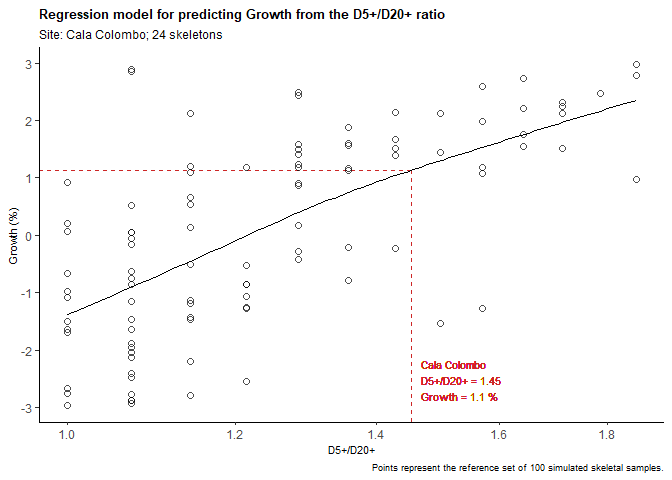
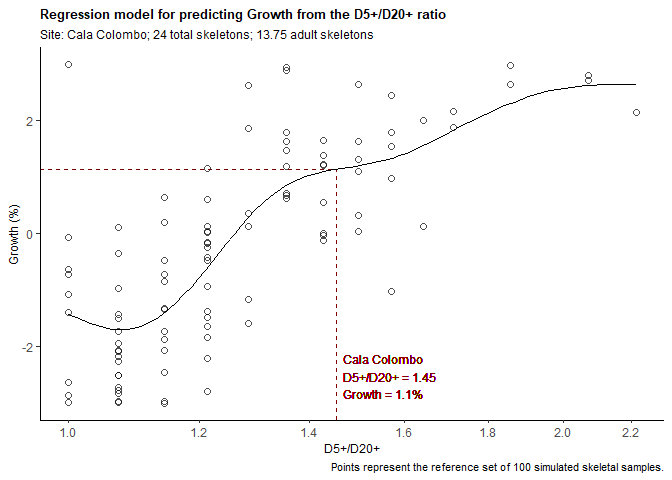
Add files via upload

diff --git a/README.md b/README.md
@@ -79,20 +79,19 @@ BA
 ```
 
     ## # A tibble: 68 × 12
-    ##    Site         Front   C14    dt  D0_4 D5_19   D20_     n D5_19…¹   D5_ D5_D20_
-    ##    <chr>        <int> <int> <int> <dbl> <dbl>  <dbl> <dbl>   <dbl> <dbl>   <dbl>
-    ##  1 Aisne series  5000  4900   100 10    15     25       50   0.375  40      1.6 
-    ##  2 Aiterhofen …  5400  5300   100  5.4  21.4  115.     142   0.157 137.     1.19
-    ##  3 Ajdovska Ja…  5500  4394  1106  6     8     11       25   0.421  19      1.73
-    ##  4 Aven de la …  5500  3176  2324  3.2   7.8   49       60   0.137  56.8    1.16
-    ##  5 Bade-Wutemb…  5400  5250   150  7.2  12.8   11       31   0.538  23.8    2.16
-    ##  6 Baume Bourb…  5500  4700   800  1.75  3.91   9.33    15   0.295  13.2    1.42
-    ##  7 Belleville    4900  2548  2352  9.8  35.6   95.6    141   0.272 131.     1.37
-    ##  8 Breuil-en-V…  4900  2700  2200 28    20     40       88   0.333  60      1.5 
-    ##  9 Brochtorff …  5900  3900  2000  2    15     55       72   0.214  70      1.27
-    ## 10 Bruchstedt    5400  5250   150  8.2  18.8   34       61   0.356  52.8    1.55
-    ## # … with 58 more rows, 1 more variable: Culture <chr>, and abbreviated variable
-    ## #   name ¹D5_19_D5_
+    ##    Site   Front   C14    dt  D0_4 D5_19   D20_     n     P   D5_ D5_D20_ Culture
+    ##    <chr>  <int> <int> <int> <dbl> <dbl>  <dbl> <dbl> <dbl> <dbl>   <dbl> <chr>  
+    ##  1 Aisne…  5000  4900   100 10    15     25       50 0.375  40      1.6  Neolit…
+    ##  2 Aiter…  5400  5300   100  5.4  21.4  115.     142 0.157 137.     1.19 Neolit…
+    ##  3 Ajdov…  5500  4394  1106  6     8     11       25 0.421  19      1.73 Neolit…
+    ##  4 Aven …  5500  3176  2324  3.2   7.8   49       60 0.137  56.8    1.16 Neolit…
+    ##  5 Bade-…  5400  5250   150  7.2  12.8   11       31 0.538  23.8    2.16 Neolit…
+    ##  6 Baume…  5500  4700   800  1.75  3.91   9.33    15 0.295  13.2    1.42 Neolit…
+    ##  7 Belle…  4900  2548  2352  9.8  35.6   95.6    141 0.272 131.     1.37 Neolit…
+    ##  8 Breui…  4900  2700  2200 28    20     40       88 0.333  60      1.5  Neolit…
+    ##  9 Broch…  5900  3900  2000  2    15     55       72 0.214  70      1.27 Neolit…
+    ## 10 Bruch…  5400  5250   150  8.2  18.8   34       61 0.356  52.8    1.55 Neolit…
+    ## # … with 58 more rows
 
 ``` r
 # For column description, run help(BA).
@@ -228,14 +227,14 @@ BA %>%
     ## # A tibble: 10 × 8
     ##    Site         Culture    DV     IV            Est       Lwr       Upr Ratio_…¹
     ##    <chr>        <chr>      <chr>  <chr>   <dbl[1d]> <dbl[1d]> <dbl[1d]> <chr>   
-    ##  1 Cala Colombo Neolithic  TFR    D5_D20_    7.11        3.48    14.5   Normal  
-    ##  2 Cala Colombo Neolithic  CBR    D5_D20_   55.8        27.0     84.6   Normal  
-    ##  3 Cala Colombo Neolithic  Growth D5_D20_    1.14       -1.47     3.75  Normal  
+    ##  1 Cala Colombo Neolithic  TFR    D5_D20_    7.89        4.09    15.2   Normal  
+    ##  2 Cala Colombo Neolithic  CBR    D5_D20_   60.8        33.1     88.4   Normal  
+    ##  3 Cala Colombo Neolithic  Growth D5_D20_    1.14       -1.14     3.43  Normal  
     ##  4 Cala Colombo Neolithic  CBR    P         58.2        NA       NA     Normal  
     ##  5 Cala Colombo Neolithic  Growth P          1.81       NA       NA     Normal  
-    ##  6 Djerdap      Mesolithic TFR    D5_D20_    4.56        3.41     6.09  Normal  
-    ##  7 Djerdap      Mesolithic CBR    D5_D20_   36.3        24.7     47.9   Normal  
-    ##  8 Djerdap      Mesolithic Growth D5_D20_   -0.597      -1.68     0.482 Normal  
+    ##  6 Djerdap      Mesolithic TFR    D5_D20_    4.74        3.50     6.43  Normal  
+    ##  7 Djerdap      Mesolithic CBR    D5_D20_   38.2        25.0     51.4   Normal  
+    ##  8 Djerdap      Mesolithic Growth D5_D20_   -0.799      -1.95     0.349 Normal  
     ##  9 Djerdap      Mesolithic CBR    P         34.4        NA       NA     Normal  
     ## 10 Djerdap      Mesolithic Growth P         -0.0944     NA       NA     Normal  
     ## # … with abbreviated variable name ¹Ratio_eval
@@ -276,7 +275,7 @@ BA %>%
     ## # A tibble: 1 × 8
     ##   Site         Culture   DV    IV            Est       Lwr       Upr Ratio_eval
     ##   <chr>        <chr>     <chr> <chr>   <dbl[1d]> <dbl[1d]> <dbl[1d]> <chr>     
-    ## 1 Cala Colombo Neolithic TFR   D5_D20_      7.11      3.48      14.5 Normal
+    ## 1 Cala Colombo Neolithic TFR   D5_D20_      7.89      4.09      15.2 Normal
 
 **`diest` with full prediction results**
 
@@ -305,11 +304,11 @@ BA %>%
     ## # A tibble: 5 × 12
     ##   Site     Culture dr_data  DV    IV    Ref   Glance     Est   Lwr   Upr Ratio…¹
     ##   <chr>    <chr>   <list>   <chr> <chr> <lis> <list>   <dbl> <dbl> <dbl>   <dbl>
-    ## 1 Cala Co… Neolit… <tibble> TFR   D5_D… <df>  <tibble>  7.11  3.48 14.5    1.82 
-    ## 2 Cala Co… Neolit… <tibble> CBR   D5_D… <df>  <tibble> 55.8  27.0  84.6    1.82 
-    ## 3 Cala Co… Neolit… <tibble> Grow… D5_D… <df>  <tibble>  1.14 -1.47  3.75   1.82 
-    ## 4 Cala Co… Neolit… <tibble> CBR   P     <df>  <NULL>   58.2  NA    NA      0.451
-    ## 5 Cala Co… Neolit… <tibble> Grow… P     <df>  <NULL>    1.81 NA    NA      0.451
+    ## 1 Cala Co… Neolit… <tibble> TFR   D5_D… <df>  <tibble>  7.89  4.09 15.2    1.97 
+    ## 2 Cala Co… Neolit… <tibble> CBR   D5_D… <df>  <tibble> 60.8  33.1  88.4    1.97 
+    ## 3 Cala Co… Neolit… <tibble> Grow… D5_D… <df>  <tibble>  1.14 -1.14  3.43   1.97 
+    ## 4 Cala Co… Neolit… <tibble> CBR   P     <df>  <NULL>   58.2  NA    NA      0.491
+    ## 5 Cala Co… Neolit… <tibble> Grow… P     <df>  <NULL>    1.81 NA    NA      0.491
     ## # … with 1 more variable: Ratio_eval <chr>, and abbreviated variable name
     ## #   ¹Ratio_lim
 
@@ -331,16 +330,16 @@ BAraw %>%
     ## # A tibble: 22 × 8
     ##    Site         Culture   DV     IV            Est       Lwr       Upr Ratio_e…¹
     ##    <chr>        <fct>     <chr>  <chr>   <dbl[1d]> <dbl[1d]> <dbl[1d]> <chr>    
-    ##  1 Cala Colombo Neolithic TFR    D5_D20_     6.90       3.38     14.1  Normal   
-    ##  2 Cala Colombo Neolithic TFR    D3_D20_     7.29       3.71     14.3  Normal   
-    ##  3 Cala Colombo Neolithic TFR    D1_D20_     6.03       3.59     10.1  Normal   
-    ##  4 Cala Colombo Neolithic CBR    D5_D20_    54.5       25.7      83.3  Normal   
-    ##  5 Cala Colombo Neolithic CBR    D3_D20_    56.4       29.2      83.5  Normal   
-    ##  6 Cala Colombo Neolithic CBR    D1_D20_    48.2       27.3      69.2  Normal   
-    ##  7 Cala Colombo Neolithic Growth D5_D20_     1.04      -1.57      3.65 Normal   
-    ##  8 Cala Colombo Neolithic Growth D3_D20_     1.24      -1.20      3.69 Normal   
-    ##  9 Cala Colombo Neolithic Growth D1_D20_     0.607     -1.31      2.52 Normal   
-    ## 10 Cala Colombo Neolithic CBR    P          56.2       NA        NA    Normal   
+    ##  1 Cala Colombo Neolithic TFR    D5_D20_    7.63        3.97     14.7  Normal   
+    ##  2 Cala Colombo Neolithic TFR    D3_D20_    7.80        4.23     14.4  Normal   
+    ##  3 Cala Colombo Neolithic TFR    D1_D20_    6.06        3.56     10.3  Normal   
+    ##  4 Cala Colombo Neolithic CBR    D5_D20_   59.3        31.7      87.0  Normal   
+    ##  5 Cala Colombo Neolithic CBR    D3_D20_   59.4        33.8      84.9  Normal   
+    ##  6 Cala Colombo Neolithic CBR    D1_D20_   49.2        27.1      71.4  Normal   
+    ##  7 Cala Colombo Neolithic Growth D5_D20_    1.10       -1.18      3.38 Normal   
+    ##  8 Cala Colombo Neolithic Growth D3_D20_    0.937      -1.31      3.18 Normal   
+    ##  9 Cala Colombo Neolithic Growth D1_D20_    0.0998     -1.94      2.14 Normal   
+    ## 10 Cala Colombo Neolithic CBR    P         56.2        NA        NA    Normal   
     ## # … with 12 more rows, and abbreviated variable name ¹Ratio_eval
 
 #### `plot_diest`: Plots prediction model and estimation for a selected site
@@ -402,16 +401,16 @@ simdr_CD() %>%
     ## # A tibble: 100 × 28
     ##    SSS   Samples D20_raw e0_min e0_max Growth…¹ Growt…² Growth l27.5    e0   CBR
     ##    <lgl>   <dbl>   <dbl>  <dbl>  <dbl>    <dbl>   <dbl>  <dbl> <dbl> <dbl> <dbl>
-    ##  1 TRUE      100      50     20     30       -3       3   1.16 0.339  20.9  63.0
-    ##  2 TRUE      100      50     20     30       -3       3  -2.47 0.431  27.0  16.3
-    ##  3 TRUE      100      50     20     30       -3       3   2.14 0.324  20.0  80.3
-    ##  4 TRUE      100      50     20     30       -3       3   1.87 0.355  21.9  70.3
-    ##  5 TRUE      100      50     20     30       -3       3  -1.46 0.401  24.9  25.8
-    ##  6 TRUE      100      50     20     30       -3       3  -1.78 0.401  24.9  23.2
-    ##  7 TRUE      100      50     20     30       -3       3  -1.65 0.446  28.0  21.2
-    ##  8 TRUE      100      50     20     30       -3       3  -1.81 0.355  21.9  26.6
-    ##  9 TRUE      100      50     20     30       -3       3  -1.94 0.474  30.0  17.5
-    ## 10 TRUE      100      50     20     30       -3       3  -1.83 0.416  26.0  21.7
+    ##  1 TRUE      100      50     18     25       -3       3  1.16  0.309  19.0  68.8
+    ##  2 TRUE      100      50     18     25       -3       3  1.49  0.339  20.9  67.7
+    ##  3 TRUE      100      50     18     25       -3       3 -0.880 0.309  19.0  41.5
+    ##  4 TRUE      100      50     18     25       -3       3 -1.60  0.324  20.0  31.7
+    ##  5 TRUE      100      50     18     25       -3       3  2.19  0.386  23.9  69.5
+    ##  6 TRUE      100      50     18     25       -3       3  0.696 0.294  18.1  65.0
+    ##  7 TRUE      100      50     18     25       -3       3 -2.40  0.294  18.1  27.3
+    ##  8 TRUE      100      50     18     25       -3       3 -1.83  0.386  23.9  23.9
+    ##  9 TRUE      100      50     18     25       -3       3 -1.96  0.339  20.9  26.7
+    ## 10 TRUE      100      50     18     25       -3       3  2.93  0.324  20.0  92.6
     ## # … with 90 more rows, 17 more variables: TFR <dbl>, n <int>, D0 <int>,
     ## #   D1_ <int>, D3_ <int>, D5_ <int>, D15_ <int>, D20_ <int>, D0_14 <int>,
     ## #   D5_14 <int>, D5_19 <int>, D1_D20_ <dbl>, D3_D20_ <dbl>, D5_D20_ <dbl>,
